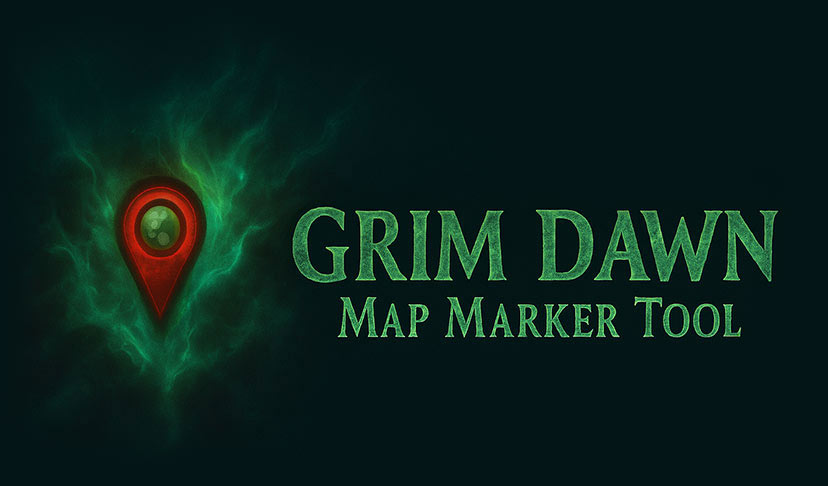
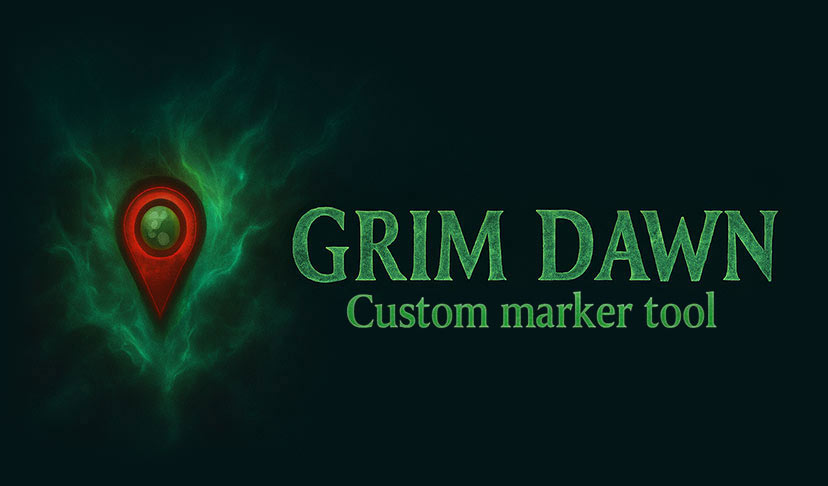
add announce

Changed region(s): [[0.3925, 0.5864, 0.9058, 0.7099]]

diff --git a/ui.lang.js b/ui.lang.js
@@ -32,7 +32,7 @@
       'ui.Help': 'How to use',
       'ui.HelpTitle': 'Help',
       'ui.HelpLine1': 'Select a map from the dropdown in the header (main or DLC)',
-      'ui.HelpLine2': 'Add your markers 📍',
+      'ui.HelpLine2': 'Add your markers 📍, or draw a route',
       'ui.HelpLine3': 'Your markers are saved automatically. Use the "Save markers" button in the header to save manually if needed',
       'ui.HelpLine4': 'You can share your map with other users. Only the routes and the markers checked as "shared" will be shared. Other markers will remain private to your map.',
       'ui.DeleteButton': 'Delete',
@@ -89,6 +89,7 @@
       "ui.region":  "Region",
       "ui.rift":    "Rift",
       "ui.dungeon": "Dungeon",
+      "ui.annouce": "Build your own experience",
 
     },
     fr: {
@@ -120,7 +121,7 @@
       'ui.Help': 'Guide d’utilisation',
       'ui.HelpTitle': 'Aide',
       'ui.HelpLine1': 'Choisissez une carte depuis le menu déroulant dans l’en-tête (principale ou DLC)',
-      'ui.HelpLine2': 'Ajoutez vos marqueurs 📍',
+      'ui.HelpLine2': 'Ajoutez vos marqueurs 📍, ou tracez une route',
       'ui.HelpLine3': 'Vos marqueurs sont sauvegardés automatiquement. Utilisez le bouton "Sauvegarder les marqueurs" si besoin.',
       'ui.HelpLine4' : 'Vous pouvez partager votre carte avec d\'autres utilisateurs. Seulement les routes et les marqueurs cochés "partagé" seront partagés. Les autres marqueurs seront privés à votre carte',
       'ui.DeleteButton': 'Supprimer',
@@ -177,6 +178,7 @@
       "ui.region":  "Région",
       "ui.rift":    "Faille",
       "ui.dungeon": "Donjon",
+      "ui.annouce": "Créez votre propre expérience",
 
     },
     es: {
@@ -208,7 +210,7 @@
       'ui.Help': 'Cómo usar',
       'ui.HelpTitle': 'Ayuda',
       'ui.HelpLine1': 'Selecciona un mapa desde el menú desplegable en el encabezado (principal o DLC)',
-      'ui.HelpLine2': 'Añade tus marcadores 📍',
+      'ui.HelpLine2': 'Añade tus marcadores 📍, o dibuja una ruta',
       'ui.HelpLine3': 'Tus marcadores se guardan automáticamente. Usa el botón "Guardar marcadores" en el encabezado si lo necesitas.',
       'ui.HelpLine4': 'Puedes compartir tu mapa con otros usuarios. Solo se compartirán las rutas y los marcadores marcados como "compartido". Los demás marcadores serán privados de tu mapa.',
       'ui.DeleteButton': 'Eliminar',
@@ -264,6 +266,7 @@
       "ui.region":  "Región",
       "ui.rift":    "Grieta",
       "ui.dungeon": "Mazmorra",
+      "ui.annouce": "Crea tu propia experiencia",
 
     },
 
@@ -296,7 +299,7 @@
       "ui.Help": "Anleitung",
       "ui.HelpTitle": "Hilfe",
       "ui.HelpLine1": "Wähle eine Karte im Dropdown-Menü oben (Hauptspiel oder DLC)",
-      "ui.HelpLine2": "Füge deine Marker hinzu 📍",
+      "ui.HelpLine2": "Füge deine Markierungen hinzu 📍 oder zeichne eine Route",
       "ui.HelpLine3": "Deine Marker werden automatisch gespeichert. Verwende die Schaltfläche 'Marker speichern' im Header, um manuell zu speichern, falls nötig.",
       "ui.HelpLine4": "Du kannst deine Karte mit anderen Benutzern teilen. Nur Routen und Marker mit dem Status 'geteilt' werden geteilt. Andere bleiben privat.",
       "ui.DeleteButton": "Löschen",
@@ -353,6 +356,8 @@
       "ui.region":  "Region",
       "ui.rift":    "Riss",
       "ui.dungeon": "Dungeon",
+      "ui.annouce": "Gestalte dein eigenes Erlebnis",
+
     },
 
   pt: {
@@ -384,7 +389,7 @@
     'ui.Help': 'Como usar',
     'ui.HelpTitle': 'Ajuda',
     'ui.HelpLine1': 'Selecione um mapa no menu suspenso do cabeçalho (principal ou DLC)',
-    'ui.HelpLine2': 'Adicione seus marcadores 📍',
+    'ui.HelpLine2': 'Adicione seus marcadores 📍 ou trace uma rota',
     'ui.HelpLine3': 'Seus marcadores são salvos automaticamente. Use o botão "Salvar marcadores" no cabeçalho se necessário.',
     'ui.HelpLine4': 'Você pode compartilhar seu mapa com outros usuários. Apenas as rotas e os marcadores marcados como "compartilhado" serão compartilhados. Os outros marcadores permanecerão privados no seu mapa.',
     'ui.DeleteButton': 'Excluir',
@@ -442,6 +447,7 @@
      "ui.region":  "Região",
       "ui.rift":    "Fenda",
       "ui.dungeon": "Masmorra",
+      "ui.annouce": "Crie sua própria experiência",
 
   },
 
@@ -474,7 +480,7 @@
     'ui.Help': 'Как использовать',
     'ui.HelpTitle': 'Помощь',
     'ui.HelpLine1': 'Выберите карту из выпадающего списка вверху (основная или DLC)',
-    'ui.HelpLine2': 'Добавляйте свои маркеры 📍',
+    'ui.HelpLine2': 'Добавьте свои метки 📍 или проложите маршрут',
     'ui.HelpLine3': 'Ваши маркеры сохраняются автоматически. При необходимости используйте кнопку "Сохранить маркеры" вверху.',
     'ui.HelpLine4': 'Вы можете поделиться своей картой с другими пользователями. Будут переданы только маршруты и метки, отмеченные как «общие». Остальные метки останутся приватными на вашей карте.',
     'ui.DeleteButton': 'Удалить',
@@ -530,6 +536,7 @@
     "ui.region":  "Регион",
     "ui.rift":    "Разлом",
     "ui.dungeon": "Подземелье",
+    "ui.annouce": "Создайте свой собственный опыт",
 
   },
 
@@ -562,7 +569,7 @@
       'ui.Help': 'Come usare',
       'ui.HelpTitle': 'Guida',
       'ui.HelpLine1': 'Seleziona una mappa dal menu a discesa in alto (principale o DLC)',
-      'ui.HelpLine2': 'Aggiungi i tuoi marcatori 📍',
+      'ui.HelpLine2': 'Aggiungi i tuoi segnalini 📍 o traccia un percorso',
       'ui.HelpLine3': 'I tuoi marcatori vengono salvati automaticamente. Usa il pulsante "Salva marcatori" nell’intestazione se necessario.',
       'ui.HelpLine4': 'Puoi condividere la tua mappa con altri utenti. Solo i percorsi e i marcatori contrassegnati come "condivisi" verranno condivisi. Gli altri marcatori rimarranno privati sulla tua mappa.',
       'ui.DeleteButton': 'Elimina',
@@ -620,6 +627,7 @@
       "ui.region":  "Regione",
       "ui.rift":    "Varco",
       "ui.dungeon": "Dungeon",
+      "ui.annouce": "Crea la tua esperienza personale",
     },
 
     zh: {
@@ -651,7 +659,7 @@
       'ui.Help': '使用说明',
       'ui.HelpTitle': '帮助',
       'ui.HelpLine1': '从标题栏的下拉菜单中选择地图（主线或DLC）',
-      'ui.HelpLine2': '添加您的标记 📍',
+      'ui.HelpLine2': '添加你的标记 📍，或绘制一条路线',
       'ui.HelpLine3': '标记会自动保存。如需手动保存，请使用标题栏中的“保存标记”按钮',
       'ui.HelpLine4': '您可以与其他用户共享您的地图。只有选中“共享”的路线和标记会被共享，其他标记将保留为您地图的私人内容。',
       'ui.DeleteButton': '删除',
@@ -708,6 +716,7 @@
       "ui.region":  "地区",
       "ui.rift":    "裂隙",
       "ui.dungeon": "地下城",
+      "ui.annouce": "打造属于你的独特体验",
     },
     ja: {
         'ui.NewMarkerTitle': '新しいマーカー',
@@ -738,7 +747,7 @@
       'ui.Help': '使い方',
       'ui.HelpTitle': 'ヘルプ',
       'ui.HelpLine1': 'ヘッダーのドロップダウンからマップを選択します（本編またはDLC）',
-      'ui.HelpLine2': 'マーカーを追加します 📍',
+      'ui.HelpLine2': 'マーカーを追加する 📍、またはルートを描く',
       'ui.HelpLine3': 'マーカーは自動的に保存されます。必要に応じてヘッダーの「マーカーを保存」ボタンでも手動保存できます。',
       'ui.HelpLine4': 'マップを他のユーザーと共有できます。「共有」としてチェックされたルートとマーカーだけが共有され、それ以外のマーカーは自分専用のままです。',
       'ui.DeleteButton': '削除',
@@ -795,6 +804,7 @@
       'ui.region':  '地域',
       'ui.rift':    'リフト',
       'ui.dungeon': 'ダンジョン',
+      "ui.annouce": "自分だけの体験を築こう",
     }
 
   };

diff --git a/style.css b/style.css
@@ -26,6 +26,34 @@ body {
   font: 14px/1.4 system-ui, Segoe UI, Roboto, Helvetica, Arial;
 }
 
+.title {
+ font-weight: 700;
+ margin-right: auto;
+ gap: 17px; 
+ margin: 0px auto;
+}
+
+.app-logo img{
+  opacity: 0.8;
+}
+
+.app-logo {
+  position: relative;
+}
+
+.announce{
+  position: absolute;
+  left: 30px;
+  font-size: 13px;
+  bottom: 22px;
+  font-weight: 400;
+  opacity: 0.72;
+  color:#d9a066;
+  text-shadow: 0 0 4px rgba(0, 0, 0, 0.7);
+  width: 300px;
+  text-align: center;
+}
+
 .seo-summary {
   position: absolute;
   left: -9999px;
@@ -79,21 +107,6 @@ header .right-panel{
     position: absolute;
     align-items: center;
     gap: 12px;
-}
-
-
-.title {
- font-weight: 700;
- margin-right: auto;
- display: flex;
- align-items: anchor-center;
- gap: 17px; 
- display: flex;
- margin: 0px auto;
-}
-
-.app-logo img{
-  opacity: 0.8;
 }
 
 header .sep { 
@@ -702,7 +715,7 @@ button.marker-center,
   transform: translate(-50%, -50%); 
   z-index: 9999; 
   background: var(--p2);
-  border: 1px solid #2a315a;
+  border: 1px solid #295d62;
   border-radius: 12px;
   box-shadow: var(--shadow);
   padding: 18px 20px;

diff --git a/index.html b/index.html
@@ -26,7 +26,7 @@
   <meta name="twitter:image" content="https://www.grimcustommarker.org/img/preview.jpg" />
 
   <link rel="icon" type="image/png" href="img/favicon.png">
-  <link rel="stylesheet" href="style.css?3.43" />
+  <link rel="stylesheet" href="style.css?3.44" />
 </head>
 <body>
   <p aria-hidden="true" class="seo-summary">
@@ -105,6 +105,7 @@
       <div class="title">
         <div class="app-logo">
           <img src="img/grim_dawn_icon3.jpg?v2.2" width="280">
+          <p class="announce" data-i18n="ui.annouce">Build your own experience</p>
         </div>
       </div>
       <div class="section principal">
@@ -348,7 +349,7 @@
   </div>
 </div>
 
-  <script src="ui.lang.js?v=3.36"></script>
+  <script src="ui.lang.js?v=3.37"></script>
   <script src="core.js?v=3.06"></script>
   <script src="ui.rift.js?v=3.86"></script>
   <script src="ui.region.js?v=3.92"></script>
